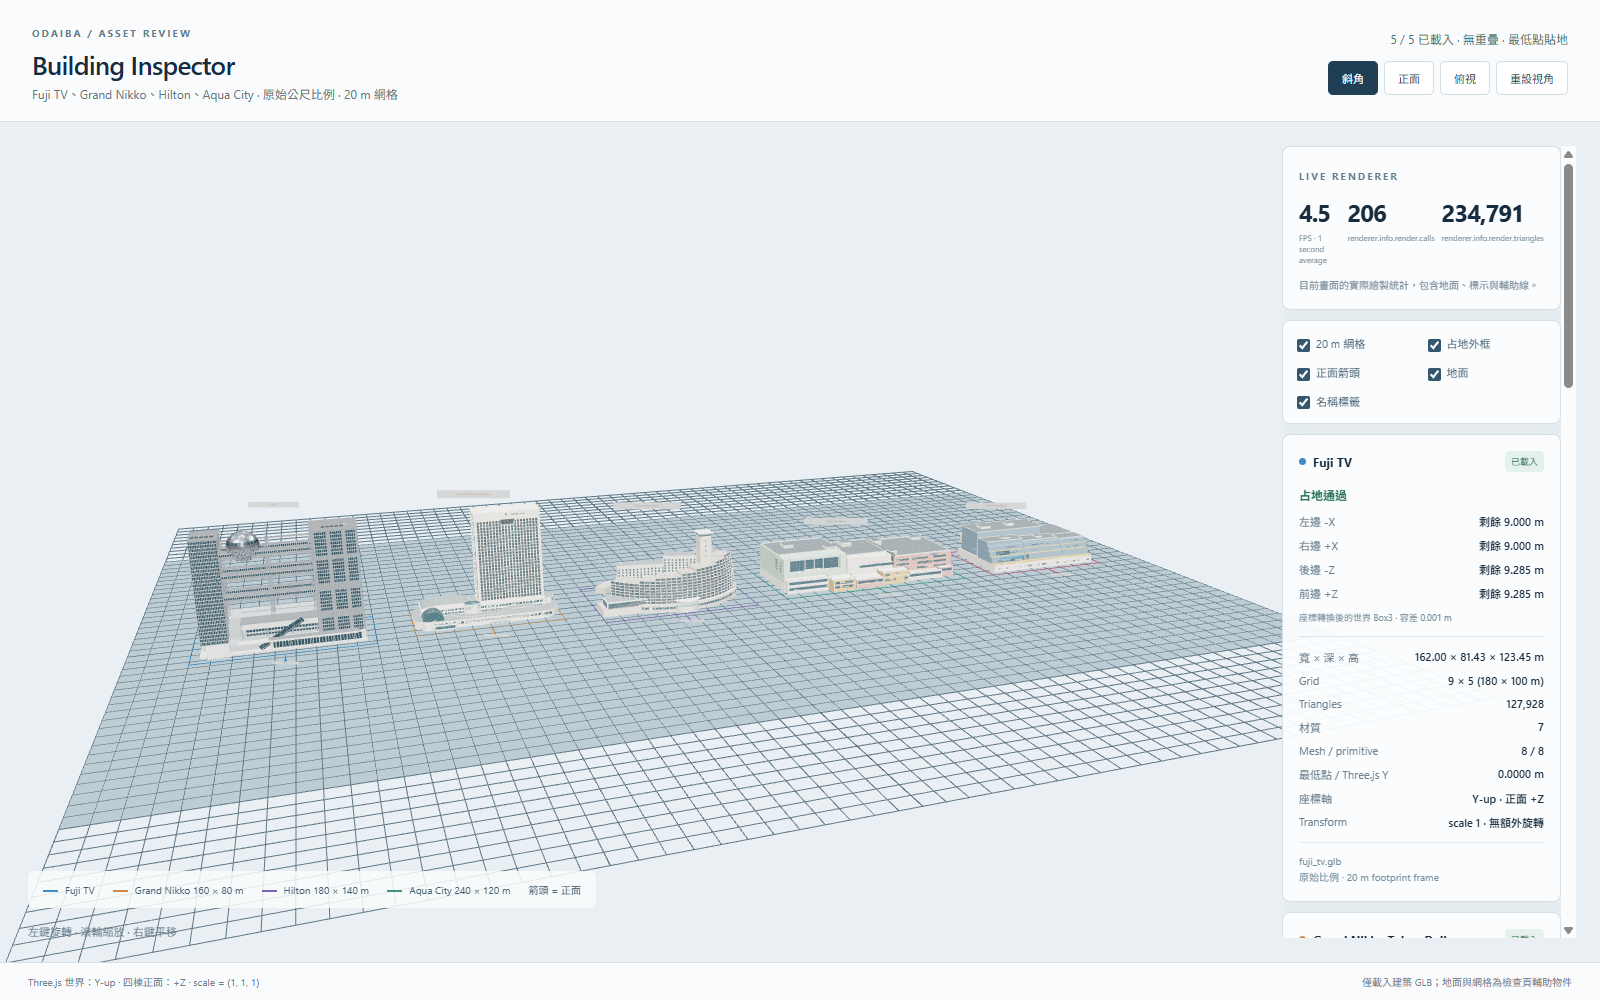
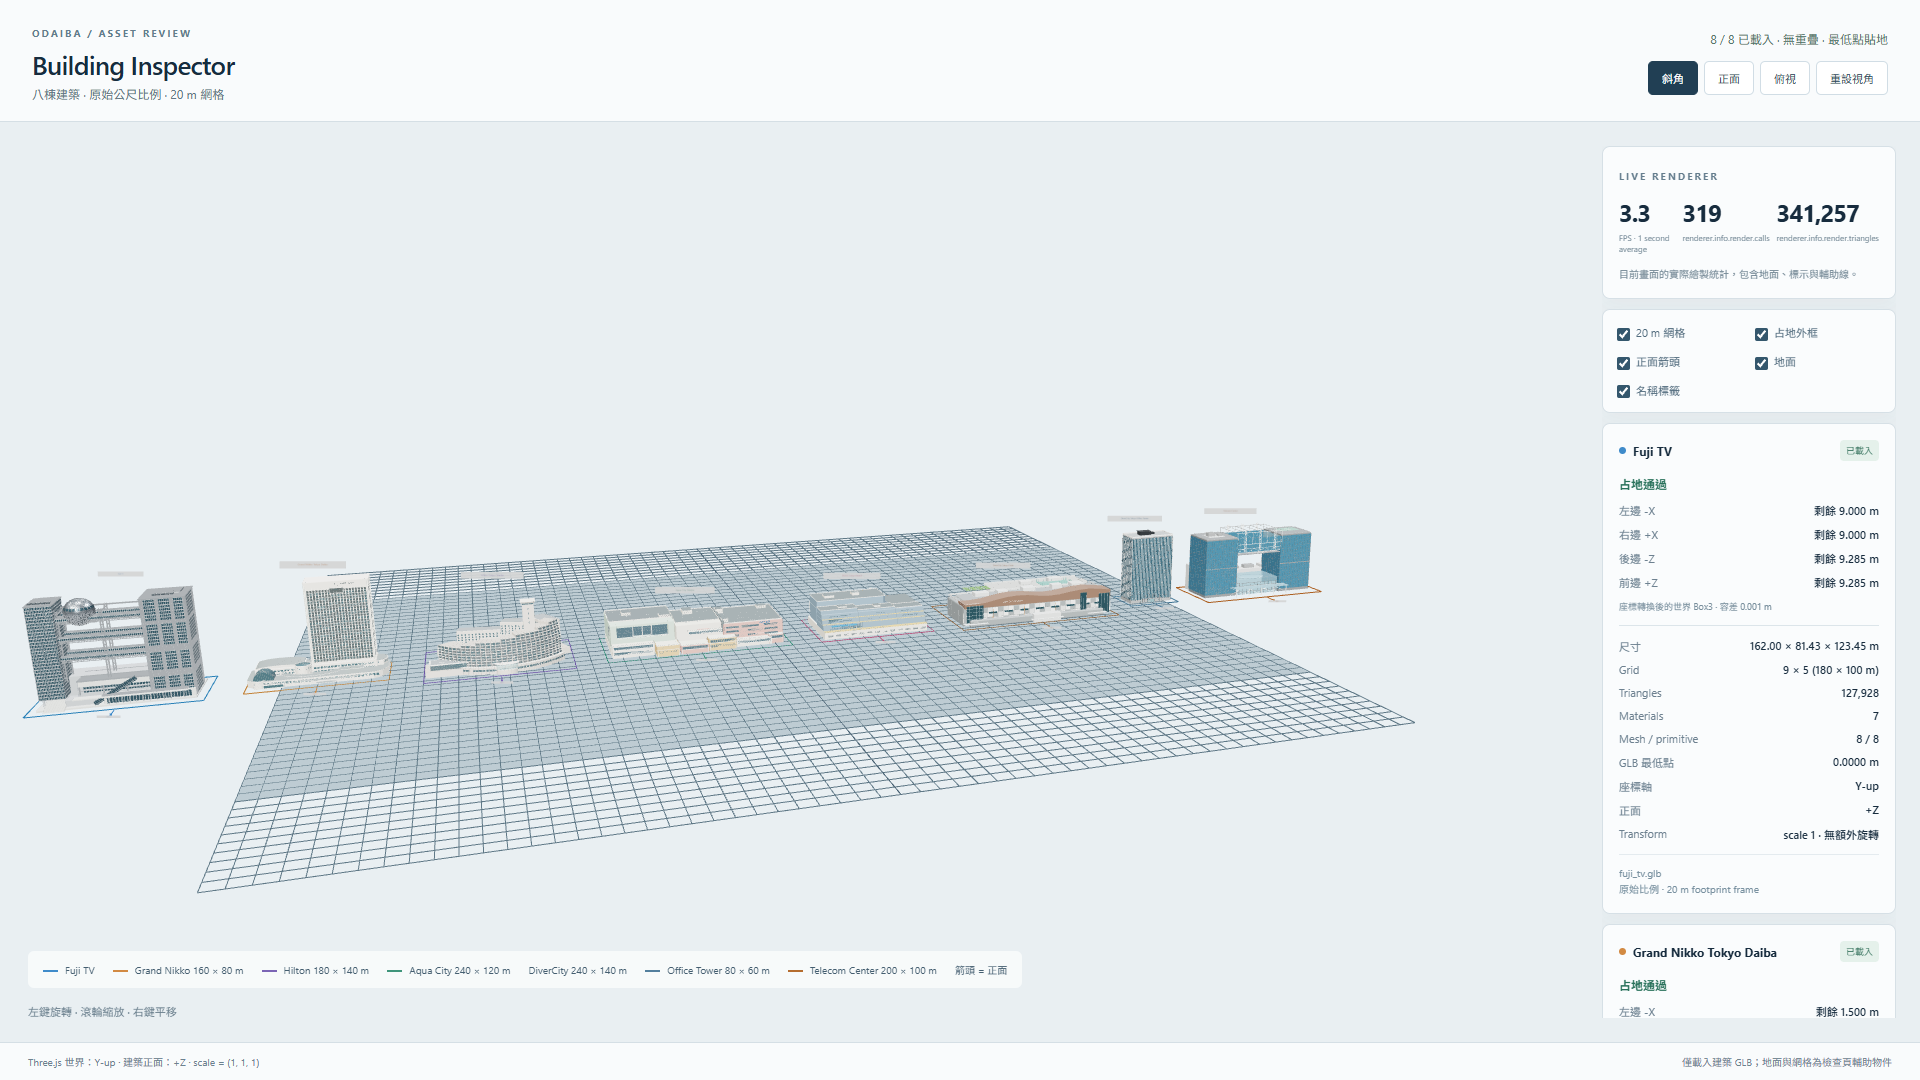
docs: update eight-building Inspector evidence

Changed region(s): [[0.0, 0.155, 1.0, 0.992], [0.0, 0.031, 0.25, 0.124], [0.8125, 0.031, 1.0, 0.093]]

diff --git a/docs/handoffs/odaiba-assets.md b/docs/handoffs/odaiba-assets.md
@@ -18,7 +18,7 @@
 
 ## Goal and acceptance criteria
 
-Prepare the current Odaiba building source/export pairs for team-lead progress review. The branch retains the five previously reviewed buildings and adds DiverCity Tokyo Plaza, DiverCity Tokyo Office Tower and Telecom Center. These landmarks belong exclusively to the Odaiba Plan and must not be mixed into the Shibuya venue; likewise, Shibuya landmarks must not be placed in Odaiba. This branch does not modify the existing Shibuya runtime. The three new pairs require matching `.blend` and `.glb` files, while Telecom Center also carries top and oblique source-render previews as progress evidence. Telecom Center has not yet been added to the formal Building Inspector review scene, so this progress branch is not declared ready to merge into `main`.
+Prepare the current Odaiba building source/export pairs for team-lead progress review. The branch retains the five previously reviewed buildings and adds DiverCity Tokyo Plaza, DiverCity Tokyo Office Tower and Telecom Center. These landmarks belong exclusively to the Odaiba Plan and must not be mixed into the Shibuya venue; likewise, Shibuya landmarks must not be placed in Odaiba. This branch does not modify the existing Shibuya runtime. The three new pairs require matching `.blend` and `.glb` files, while Telecom Center also carries top and oblique source-render previews as progress evidence. The formal Building Inspector now validates all eight buildings; this handoff remains `IN_PROGRESS` for team-lead review and runtime integration remains out of scope.
 
 ## In-scope files and dependencies
 
@@ -53,10 +53,12 @@ The pairs were copied from the verified `C:\FutureCity` outputs. Source files we
 - Copied the five-building perspective and true orthographic top-view evidence.
 - Used Blender 5.2 verification results from the source work.
 - Recorded the common contract: Blender Z-up, standard glTF Y-up, Blender front `-Y`, Three.js front `+Z`, and a 20 m review grid. Standard glTF conversion is already baked; consumers must not rotate these Y-up exports a second time.
-- Building Inspector loaded all 5 of 5 assets successfully with no overlap. The measured review scene reported 206 render calls and 234,791 rendered triangles.
+- Formal Building Inspector validation passed with 8 / 8 assets loaded. All eight footprint frames are mutually non-overlapping, with building-only totals of 271 draw calls and 339,919 triangles.
 - Added targeted ignore rules for Blender autosaves, backups, reference collections, browser profiles, and dependency folders without ignoring unrelated content under `asset/`.
 - Added the verified Blender source and GLB export pairs for DiverCity Tokyo Plaza, DiverCity Tokyo Office Tower and Telecom Center without copying backups, references, generators, reports or temporary output.
-- Added Telecom Center top and oblique source-render previews as progress evidence. These are not formal Building Inspector captures.
+- Added Telecom Center top and oblique source-render previews as progress evidence.
+- Replaced the formal oblique and true orthographic top-view Building Inspector evidence with the verified eight-building captures.
+- Verified Telecom Center at 46 draw calls and 48,156 triangles, grounded at 0.0000 m with Y-up, front +Z, scale `(1, 1, 1)` and no additional rotation.
 
 ### Asset inventory and known metrics
 
@@ -69,14 +71,14 @@ The pairs were copied from the verified `C:\FutureCity` outputs. Source files we
 | DECKS Tokyo Beach | 147.05 x 104.19 x 45.27 | 8 x 6 | 15,156 | 8 | 41 / 41 | Floor plans are diagrams rather than surveys. Center Deck bridge/stair positions and seaside massing are conservative approximations; detailed terrace treatment is limited to the supported 3F area. Unlocated sail canopies and night-sign facade, interiors and surrounding infrastructure are excluded. |
 | DiverCity Tokyo Plaza | 230.50 x 135.75 x 39.70 | 12 x 7 | 35,700 | 10 | 24 / 29 | Mall and connected parking only. Dimensions, facade bays, ramp geometry and roof plant are photo-led estimates; the office tower, Gundam/Unicorn statue, public ground and surrounding infrastructure are excluded. |
 | DiverCity Tokyo Office Tower | 67.86 x 42.10 x 106.09 | 4 x 3 | 21,412 | 7 | 18 / 18 | Dimensions, roof equipment, service elevation and former connection position are photographic estimates. The mall, connection volumes, public plaza and surrounding infrastructure are excluded. |
-| Telecom Center | 184.34 x 83.96 x 103.00 | 10 x 5 | 48,156 | 9 | 42 / 46 | Overall dimensions and detailed setbacks are photographic/satellite estimates; the 103 m maximum includes a representative antenna above the stated 99 m building height. The station, guideway, public bridge and surrounding infrastructure are excluded. Not yet reviewed in the formal Building Inspector. |
+| Telecom Center | 184.34 x 83.96 x 103.00 | 10 x 5 | 48,156 | 9 | 42 / 46 | Overall dimensions and detailed setbacks are photographic/satellite estimates; the 103 m maximum includes a representative antenna above the stated 99 m building height. The station, guideway, public bridge and surrounding infrastructure are excluded. Formal Building Inspector validation passed. |
 
 ## Actual validation results
 
-- Verification status: PARTIAL for the eight-building progress branch; runtime integration remains NOT INTEGRATED.
+- Asset review validation: PASSED for the eight-building progress branch; runtime integration remains NOT INTEGRATED.
 - Date and checked commit/worktree: 2026-09-23; `feat/odaiba-assets-progress-02` worktree based on `033631c8bf1881b18f164f684e320982a898af69` before the progress commit.
-- Commands/manual checks and results: the three source paths and eight copied destinations were checked; only the requested formal pairs and Telecom previews were copied. Their source inspection reports record Blender 5.2.2 reopen, GLB reparse and triangle-match validation. The earlier Building Inspector result remains 5/5 for the original five assets; Telecom Center has not been added to the formal Building Inspector.
-- Evidence/environment: earlier formal evidence remains `docs/handoffs/odaiba-assets-angle.png` and `docs/handoffs/odaiba-assets-top.png`; current Telecom source-render evidence is `docs/handoffs/telecom-center-top.png` and `docs/handoffs/telecom-center-oblique.png`.
+- Commands/manual checks and results: the three source paths and eight copied destinations were checked; only the requested formal pairs and Telecom previews were copied. Their source inspection reports record Blender 5.2.2 reopen, GLB reparse and triangle-match validation. The formal Building Inspector loaded 8 / 8, confirmed all footprint frames are mutually non-overlapping and measured building-only totals of 271 draw calls and 339,919 triangles. Telecom Center contributed 46 draw calls and 48,156 triangles and was verified grounded, Y-up, front +Z, scale `(1, 1, 1)` with no additional rotation.
+- Evidence/environment: current formal eight-building evidence is `docs/handoffs/odaiba-assets-angle.png` and `docs/handoffs/odaiba-assets-top.png`; Telecom source-render evidence remains `docs/handoffs/telecom-center-top.png` and `docs/handoffs/telecom-center-oblique.png`.
 - Integrated commit and checks: NOT INTEGRATED. The application in `city2127` does not load these models yet.
 - Changes since verification: three new source/export pairs, two Telecom Center source-render previews and this handoff update; no application code was modified.
 
@@ -87,7 +89,7 @@ The pairs were copied from the verified `C:\FutureCity` outputs. Source files we
 - Odaiba and Shibuya are separate venue plans. Their landmark buildings must not be mixed across settings.
 - The Grand Nikko source report records a legacy Z-up GLB workflow, unlike the newer standard Y-up pairs. The inspector's existing one-time adapter was used for review; a future application integration owner must confirm and document the consumer-side contract.
 - No runtime URL/import, layout placement, collision envelope, route integration, material tuning, loading budget or production-build validation has been implemented in `city2127`.
-- Telecom Center is not yet present in the formal Building Inspector review scene; the copied top and oblique images are source-render progress evidence only.
+- Formal eight-building asset review is complete; runtime URL/import, placement and production integration remain unimplemented.
 
 ## Important decisions
 
@@ -98,4 +100,4 @@ The pairs were copied from the verified `C:\FutureCity` outputs. Source files we
 
 ## Next expected step
 
-The team lead reviews `feat/odaiba-assets-progress-02` and the three added asset pairs. Before any main integration decision, add Telecom Center to the formal Building Inspector, validate the expanded set, and record new inspector evidence and metrics. Keep this handoff `IN_PROGRESS` until that review is complete. Odaiba runtime integration remains a separate scope and must not modify the Shibuya scene by inserting these landmarks.
+The team lead reviews `feat/odaiba-assets-progress-02`, the three added asset pairs and the passed eight-building Inspector evidence. Keep this handoff `IN_PROGRESS` until that review is complete. Odaiba runtime integration remains a separate scope and must not modify the Shibuya scene by inserting these landmarks.
